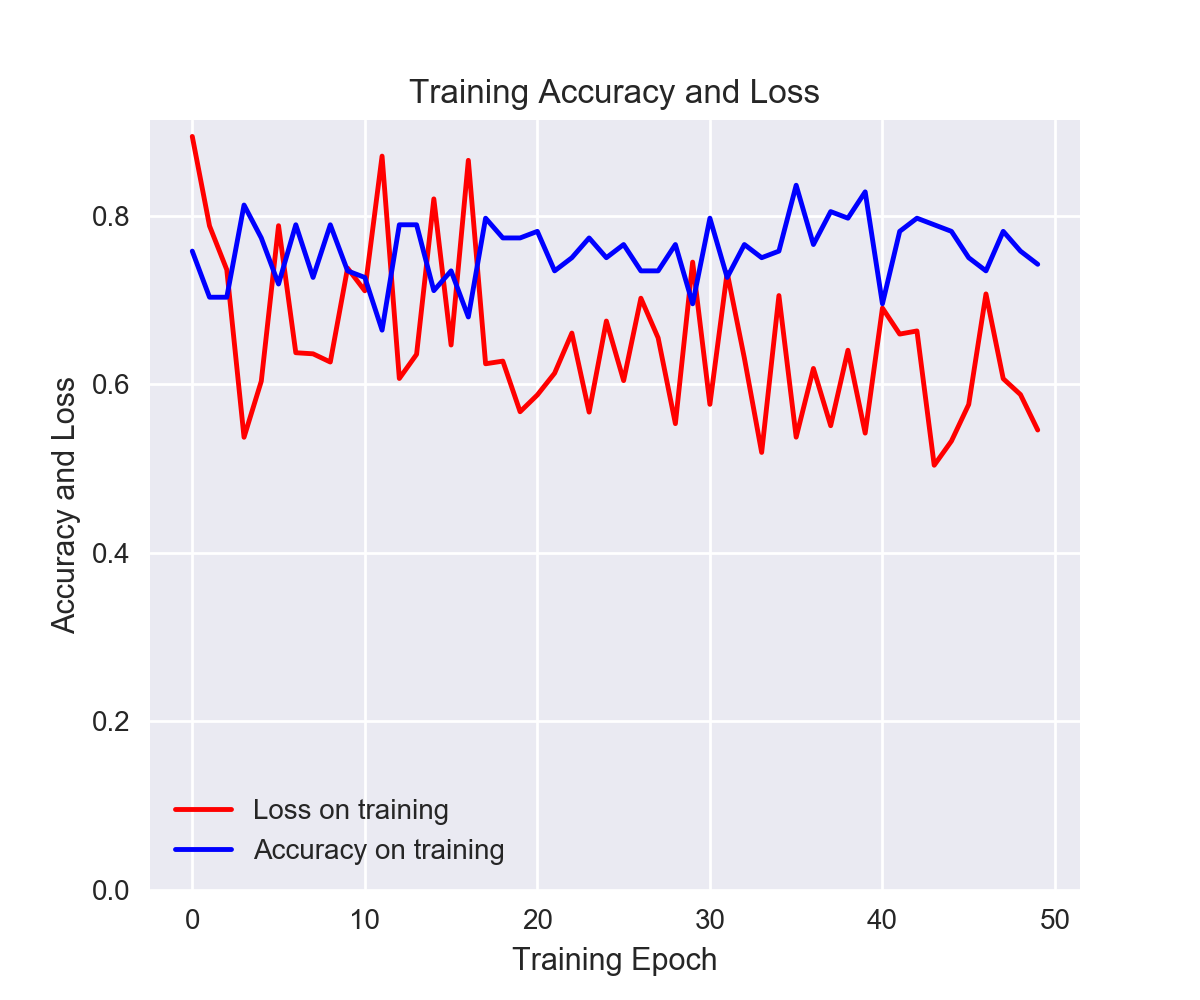
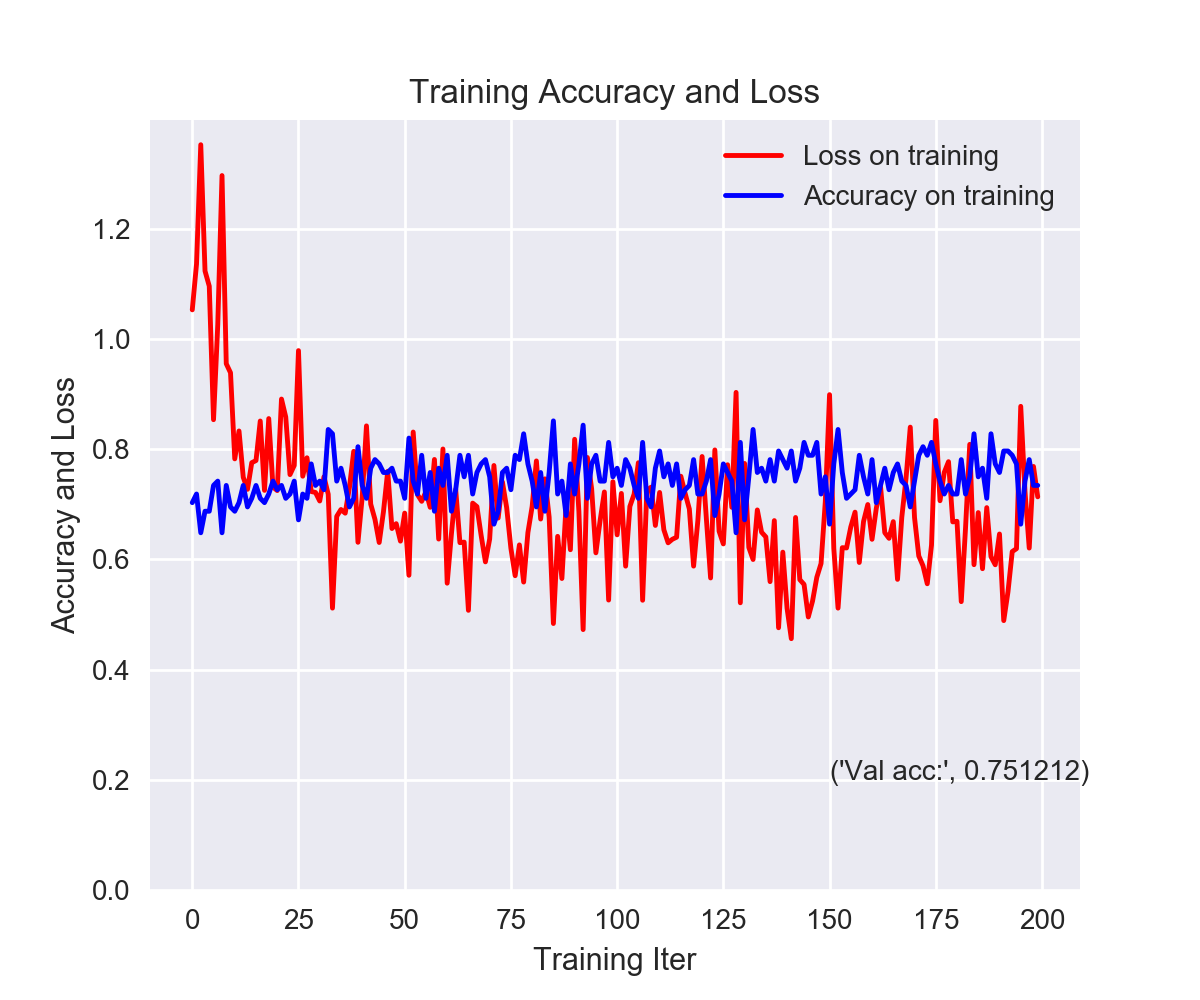
update validation

diff --git a/otto-group-product-classification/cnn.py b/otto-group-product-classification/cnn.py
@@ -13,9 +13,9 @@ x_train, x_val, y_train, y_val = get_data_split()
 
 # Set training parameters 
 learning_rate = 0.001
-training_steps = 500
+training_steps = 200
 batch_size = 128
-display_step = 10
+display_step = 1
 
 n_samples = x_train.shape[0]
 n_feats = x_train.shape[1]
@@ -115,15 +115,17 @@ for step, (batch_x, batch_y) in enumerate(train_data.take(training_steps), 1):
 
 # Test model on validation set.
 pred = conv_net(x_val.values)
-print("Validation Accuracy: %f" % accuracy(pred, y_val))
+val_acc = accuracy(pred, y_val)
+print("Validation Accuracy: %f" % val_acc)
 
 # plot training
 fig = plt.figure(figsize=(6,5))
 plt.plot(train_loss, 'r', label='Loss on training')
 plt.plot(train_acc, 'b', label='Accuracy on training')
+plt.text(150, 0.2,  ('Val acc:', val_acc.numpy())) 
 plt.title('Training Accuracy and Loss')
 plt.ylabel('Accuracy and Loss')
-plt.xlabel('Training Epoch')
+plt.xlabel('Training Iter')
 plt.ylim(0)
 plt.legend()
 plt.show()

diff --git a/otto-group-product-classification/README.md b/otto-group-product-classification/README.md
@@ -16,3 +16,12 @@ The train set is split as _train_ and _validation_.  The test set is not labelle
 The plots below shows the FCN performance. 
 
 <img src="evaluation/fc_eval.png" alt="eval" width="500"/>
+
+
+Performance on a 2 layer [Convolutional network](cnn.py). 
+
+<img src="evaluation/cnn_eval.png" alt="eval" width="500"/>
+
+```python
+Validation Accuracy: 0.779493
+```
